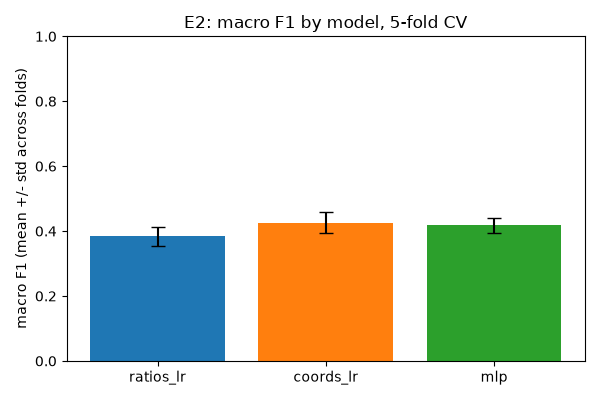
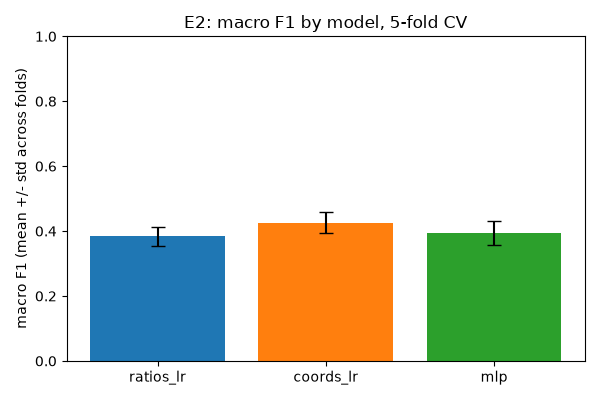
Add new E2 outputs

Changed region(s): [[0.69, 0.54, 0.93, 0.63]]

diff --git a/experiments/e2/README.md b/experiments/e2/README.md
@@ -62,19 +62,19 @@ Plot: `plots/coords_lr_confusion_matrix.png`.
 | fold | macro F1 | kappa | MCC |
 |---|---|---|---|
 | 0 | 0.427 | 0.155 | 0.161 |
-| 1 | 0.443 | 0.211 | 0.219 |
-| 2 | 0.421 | 0.157 | 0.167 |
-| 3 | 0.423 | 0.179 | 0.184 |
-| 4 | 0.376 | 0.073 | 0.076 |
-| **mean** | **0.418 +/- 0.023** | **0.155 +/- 0.046** | **0.161 +/- 0.047** |
+| 1 | 0.401 | 0.136 | 0.143 |
+| 2 | 0.431 | 0.181 | 0.190 |
+| 3 | 0.335 | 0.018 | 0.018 |
+| 4 | 0.375 | 0.060 | 0.063 |
+| **mean** | **0.394 +/- 0.036** | **0.110 +/- 0.061** | **0.115 +/- 0.064** |
 
 Confusion matrix (rows = true, columns = predicted, summed over 5 folds):
 
 | true \ pred | attentive | relaxed | uncomfortable |
 |---|---|---|---|
-| attentive | 742 | 218 | 170 |
-| relaxed | 363 | 203 | 164 |
-| uncomfortable | 23 | 20 | 64 |
+| attentive | 714 | 234 | 182 |
+| relaxed | 387 | 175 | 168 |
+| uncomfortable | 27 | 16 | 64 |
 
 Plot: `plots/mlp_confusion_matrix.png`.
 
@@ -88,6 +88,15 @@ Plot: `plots/mlp_confusion_matrix.png`.
 | MCC | 0.018 +/- 0.001 |
 
 Plot: `plots/random_baseline_confusion_matrix.png`.
+
+## Checkpoints & ONNX export
+Each model above is also fit once more on the full, oversample-balanced dataset and checkpointed:
+
+| model | checkpoint | onnx export |
+|---|---|---|
+| `ratios_lr` | `experiments/e2/ratios_lr/checkpoint.pkl` | n/a |
+| `coords_lr` | `experiments/e2/coords_lr/checkpoint.pkl` | n/a |
+| `mlp` | `experiments/e2/mlp/checkpoint.pt` | PASS |
 
 ## Citations
 - CatFLW (landmark scheme, Finka et al.) and the Finka landmark scheme: see `docs/MODEL_REPORT.md` Citations.
